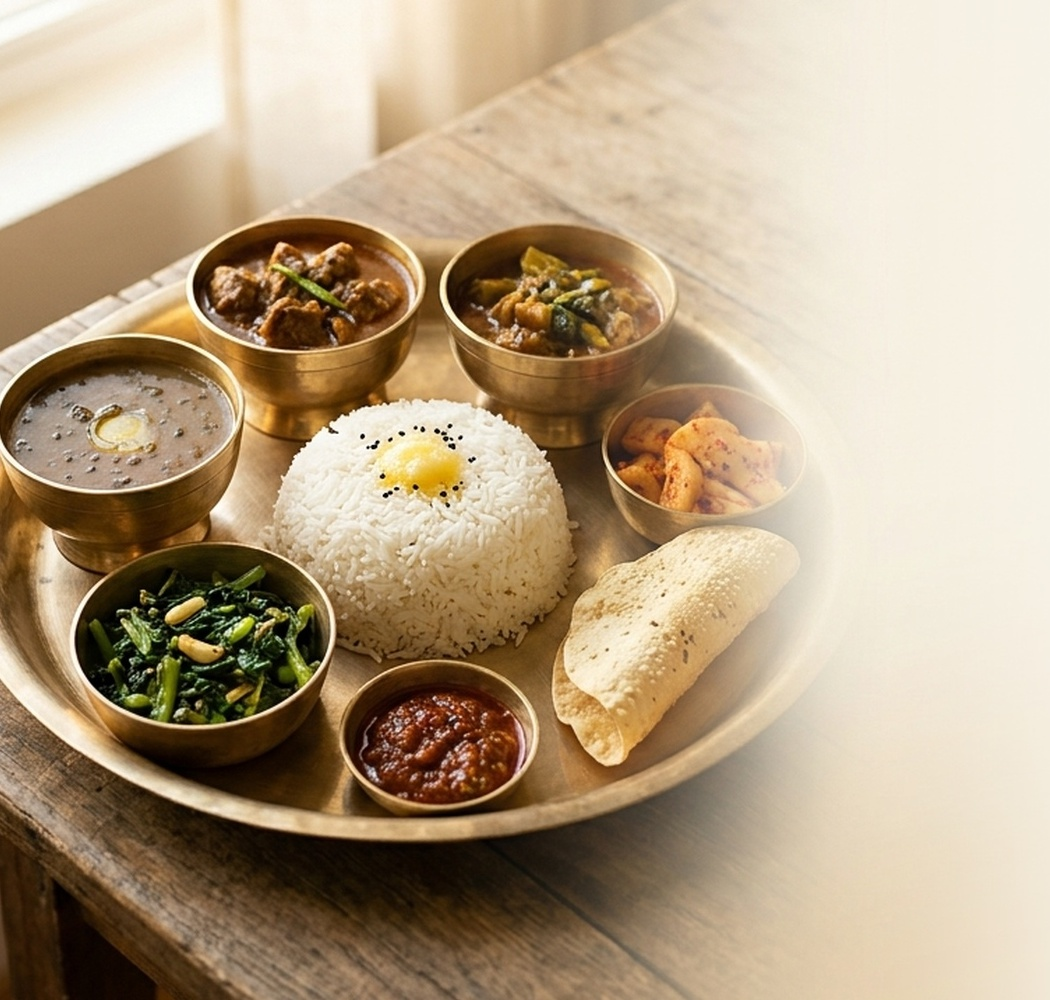
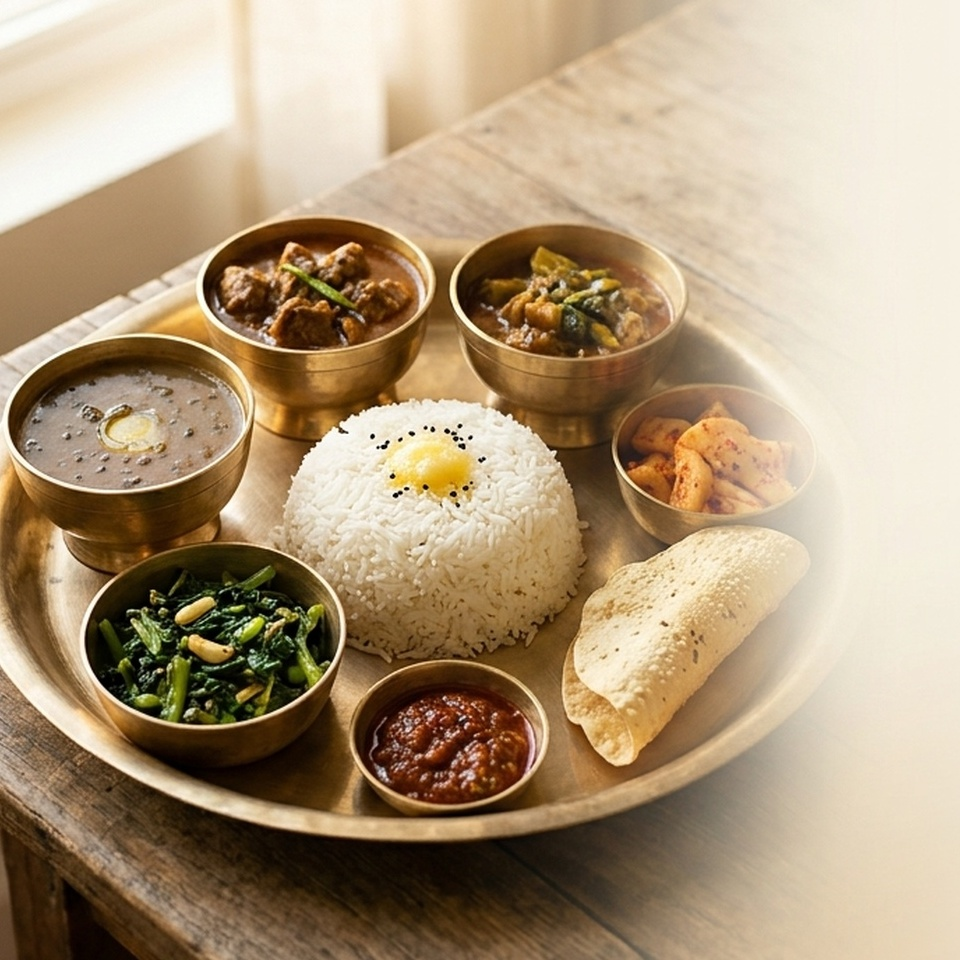
fix(thali): calibrate food hotspot pin numbers directly to their relative food items

diff --git a/templates/public/our_story.html b/templates/public/our_story.html
@@ -318,66 +318,66 @@
               <div class="absolute inset-0 rounded-full bg-gradient-to-t from-black/40 via-transparent to-black/20 pointer-events-none"></div>
 
               <!-- Hotspot 1: Steaming Mountain Rice -->
-              <div class="absolute top-[52%] left-[34%] -ml-5 -mt-5 z-20">
+              <div class="absolute top-[55.2%] left-[37.5%] -ml-5 -mt-5 z-20">
                 <span class="absolute inline-flex h-10 w-10 animate-ping rounded-full bg-[#B88B46] opacity-60"></span>
                 <button onclick="selectHotspot(0)" 
                         id="pinBtn0"
-                        class="hotspot-pin relative w-10 h-10 rounded-full bg-[#B88B46] text-[#2c1a12] flex items-center justify-center font-bold text-sm shadow-xl ring-2 ring-white/50 cursor-pointer transition transform hover:scale-125 focus:outline-none"
+                        class="hotspot-pin relative w-10 h-10 rounded-full bg-[#B88B46] text-[#2c1a12] flex items-center justify-center font-bold text-sm shadow-xl ring-2 ring-white/60 cursor-pointer transition transform hover:scale-125 focus:outline-none"
                         title="Steamed Mountain Rice (Bhat)" aria-label="Steamed Rice Hotspot">
                   1
                 </button>
               </div>
 
               <!-- Hotspot 2: Local Goat / Mutton Curry -->
-              <div class="absolute top-[48%] right-[28%] -ml-5 -mt-5 z-20">
+              <div class="absolute top-[37.5%] left-[28.6%] -ml-5 -mt-5 z-20">
                 <span class="absolute inline-flex h-10 w-10 animate-ping rounded-full bg-[#9A4D30] opacity-60"></span>
                 <button onclick="selectHotspot(1)" 
                         id="pinBtn1"
-                        class="hotspot-pin relative w-10 h-10 rounded-full bg-[#9A4D30] text-white flex items-center justify-center font-bold text-sm shadow-xl ring-2 ring-white/50 cursor-pointer transition transform hover:scale-125 focus:outline-none"
+                        class="hotspot-pin relative w-10 h-10 rounded-full bg-[#9A4D30] text-white flex items-center justify-center font-bold text-sm shadow-xl ring-2 ring-white/60 cursor-pointer transition transform hover:scale-125 focus:outline-none"
                         title="Slow Braised Himalayan Khasi" aria-label="Meat Hotspot">
                   2
                 </button>
               </div>
 
               <!-- Hotspot 3: Jimbu Tempered Lentil Soup (Dal) -->
-              <div class="absolute top-[38%] right-[12%] -ml-5 -mt-5 z-20">
+              <div class="absolute top-[47.9%] left-[18.8%] -ml-5 -mt-5 z-20">
                 <span class="absolute inline-flex h-10 w-10 animate-ping rounded-full bg-[#B88B46] opacity-60"></span>
                 <button onclick="selectHotspot(2)" 
                         id="pinBtn2"
-                        class="hotspot-pin relative w-10 h-10 rounded-full bg-[#B88B46] text-[#2c1a12] flex items-center justify-center font-bold text-sm shadow-xl ring-2 ring-white/50 cursor-pointer transition transform hover:scale-125 focus:outline-none"
+                        class="hotspot-pin relative w-10 h-10 rounded-full bg-[#B88B46] text-[#2c1a12] flex items-center justify-center font-bold text-sm shadow-xl ring-2 ring-white/60 cursor-pointer transition transform hover:scale-125 focus:outline-none"
                         title="Mustang Jimbu Dal" aria-label="Dal Hotspot">
                   3
                 </button>
               </div>
 
               <!-- Hotspot 4: Pure Mountain Ghee (Ghyu) -->
-              <div class="absolute top-[28%] right-[38%] -ml-5 -mt-5 z-20">
-                <span class="absolute inline-flex h-10 w-10 animate-ping rounded-full bg-amber-400 opacity-60"></span>
+              <div class="absolute top-[51.0%] left-[35.4%] -ml-4 -mt-4 z-30">
+                <span class="absolute inline-flex h-8 w-8 animate-ping rounded-full bg-amber-400 opacity-70"></span>
                 <button onclick="selectHotspot(3)" 
                         id="pinBtn3"
-                        class="hotspot-pin relative w-10 h-10 rounded-full bg-amber-400 text-[#2c1a12] flex items-center justify-center font-bold text-sm shadow-xl ring-2 ring-white/50 cursor-pointer transition transform hover:scale-125 focus:outline-none"
+                        class="hotspot-pin relative w-8 h-8 rounded-full bg-amber-400 text-[#2c1a12] flex items-center justify-center font-extrabold text-xs shadow-xl ring-2 ring-white/80 cursor-pointer transition transform hover:scale-125 focus:outline-none"
                         title="Pure Shingati Cow Ghee" aria-label="Ghee Hotspot">
                   4
                 </button>
               </div>
 
               <!-- Hotspot 5: Rayo ko Saag & Fermented Gundruk -->
-              <div class="absolute bottom-[20%] right-[32%] -ml-5 -mt-5 z-20">
+              <div class="absolute top-[63.5%] left-[22.9%] -ml-5 -mt-5 z-20">
                 <span class="absolute inline-flex h-10 w-10 animate-ping rounded-full bg-[#344638] opacity-60"></span>
                 <button onclick="selectHotspot(4)" 
                         id="pinBtn4"
-                        class="hotspot-pin relative w-10 h-10 rounded-full bg-[#344638] text-white flex items-center justify-center font-bold text-sm shadow-xl ring-2 ring-white/50 cursor-pointer transition transform hover:scale-125 focus:outline-none"
+                        class="hotspot-pin relative w-10 h-10 rounded-full bg-[#344638] text-white flex items-center justify-center font-bold text-sm shadow-xl ring-2 ring-white/60 cursor-pointer transition transform hover:scale-125 focus:outline-none"
                         title="Mustard Greens & Gundruk Sadeko" aria-label="Saag Hotspot">
                   5
                 </button>
               </div>
 
               <!-- Hotspot 6: Stone-Ground Timur Chutney -->
-              <div class="absolute top-[16%] right-[32%] -ml-5 -mt-5 z-20">
+              <div class="absolute top-[70.3%] left-[35.9%] -ml-5 -mt-5 z-20">
                 <span class="absolute inline-flex h-10 w-10 animate-ping rounded-full bg-[#9A4D30] opacity-60"></span>
                 <button onclick="selectHotspot(5)" 
                         id="pinBtn5"
-                        class="hotspot-pin relative w-10 h-10 rounded-full bg-[#9A4D30] text-white flex items-center justify-center font-bold text-sm shadow-xl ring-2 ring-white/50 cursor-pointer transition transform hover:scale-125 focus:outline-none"
+                        class="hotspot-pin relative w-10 h-10 rounded-full bg-[#9A4D30] text-white flex items-center justify-center font-bold text-sm shadow-xl ring-2 ring-white/60 cursor-pointer transition transform hover:scale-125 focus:outline-none"
                         title="Wild Timur Achar" aria-label="Timur Hotspot">
                   6
                 </button>
